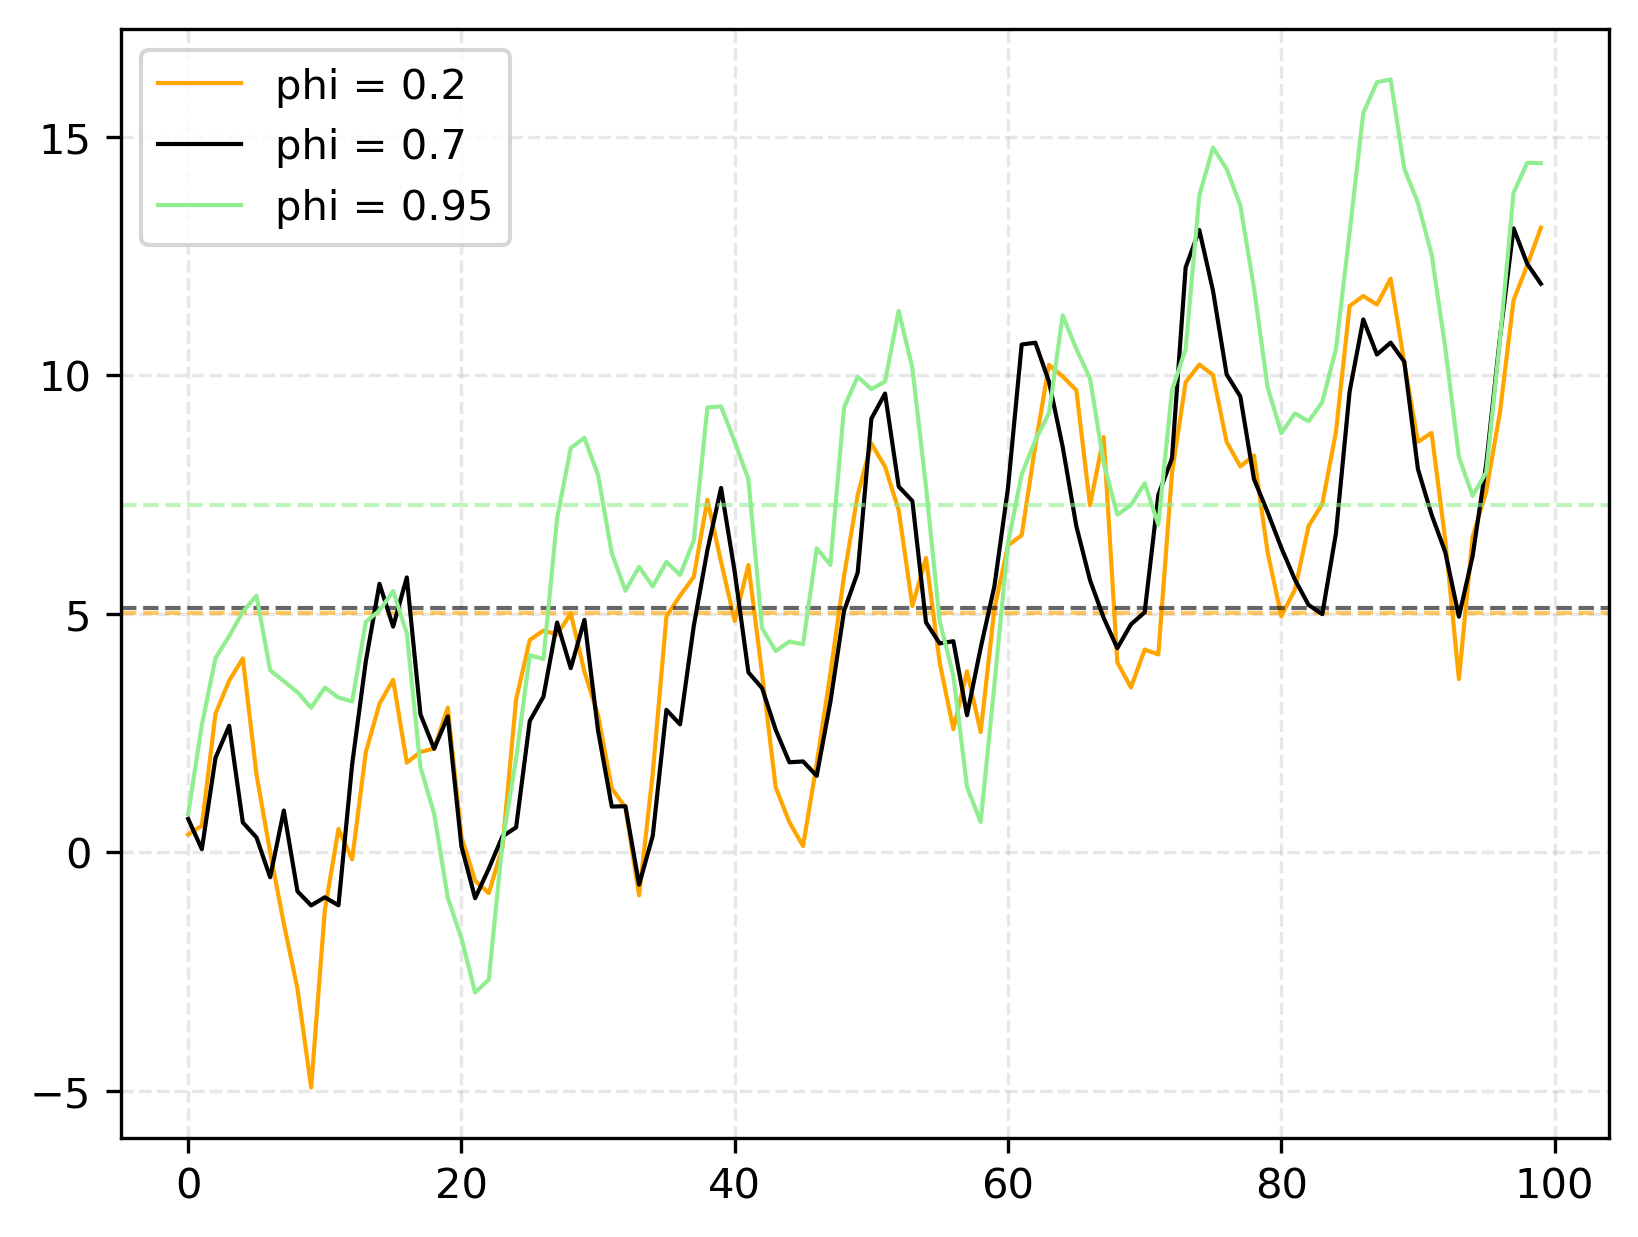
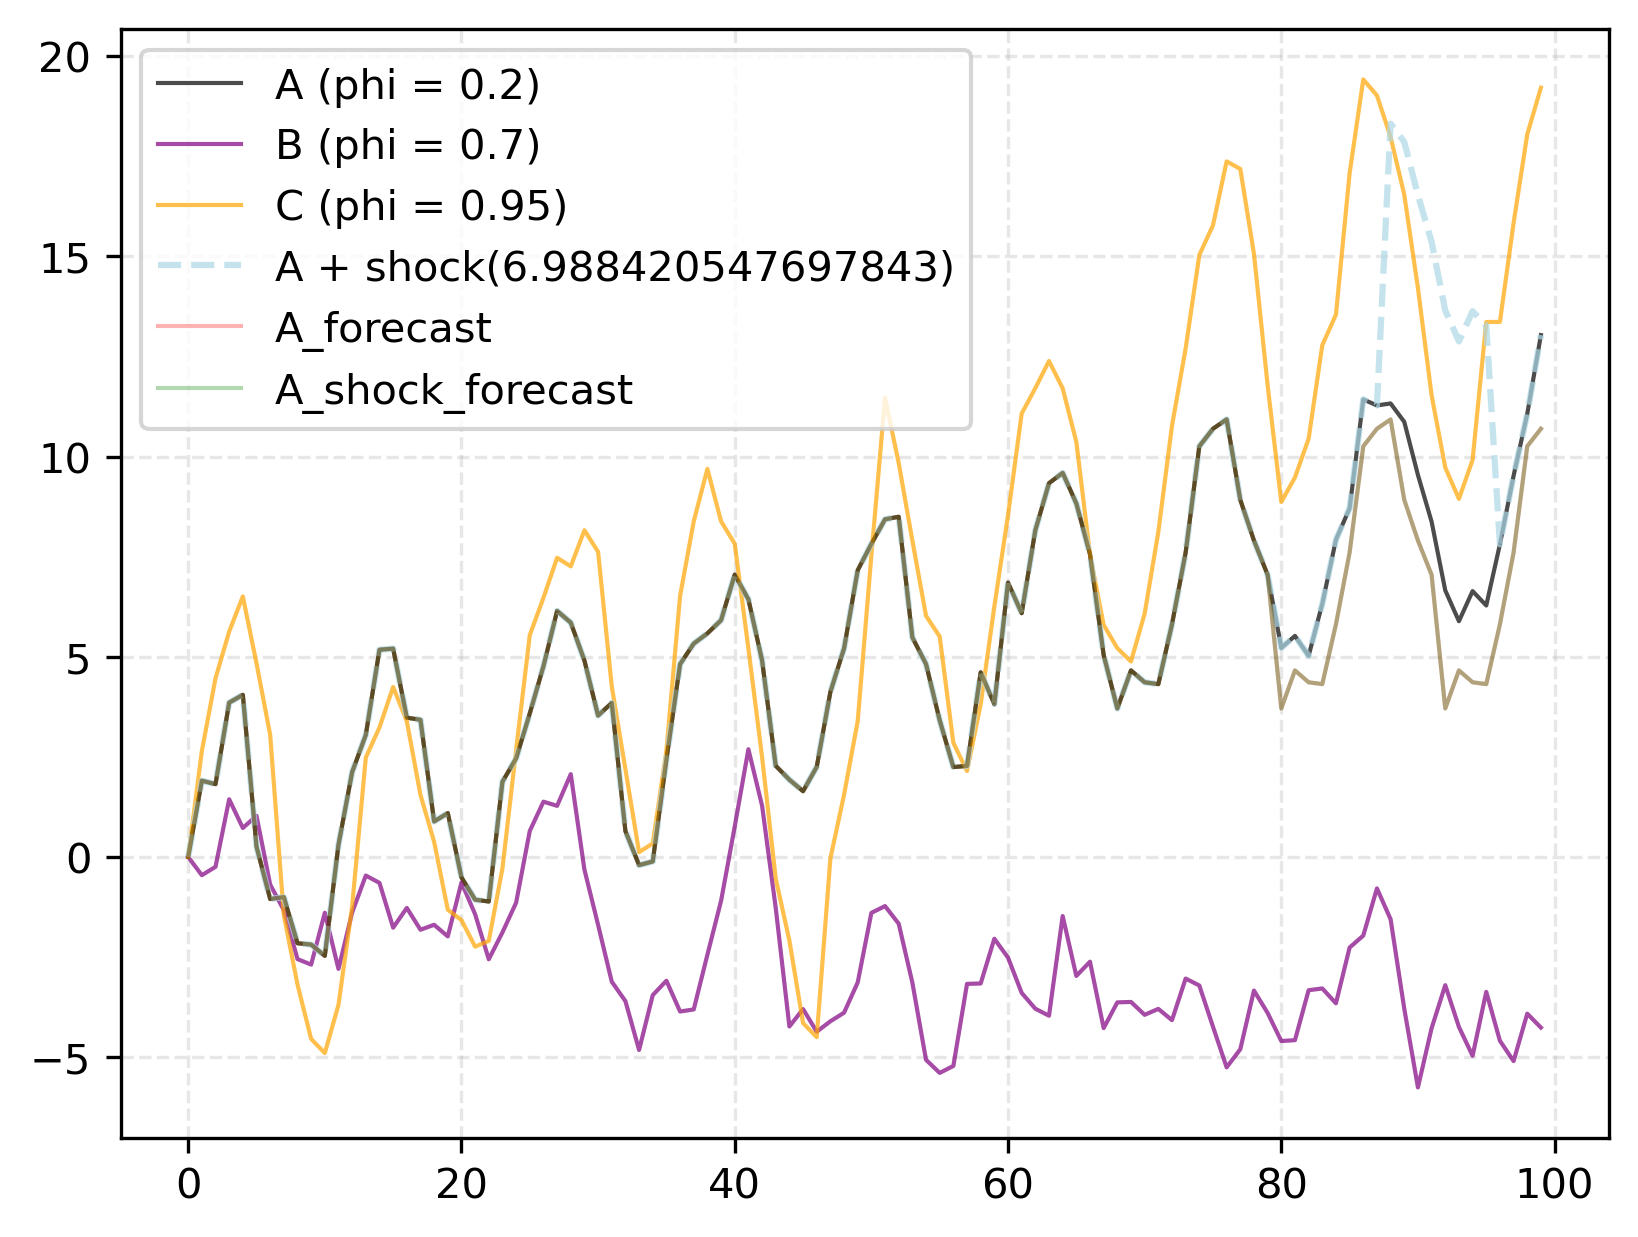
Add forecasting model: season naive

diff --git a/data/synthetic/ar_generation.py b/data/synthetic/ar_generation.py
@@ -1,6 +1,9 @@
+import array
 from cProfile import label
 import os
+from tkinter.constants import S
 import numpy as np
+import pandas as pd
 import matplotlib.pyplot as plt
 
 
@@ -11,32 +14,38 @@ os.makedirs(FIG_DIR, exist_ok=True)
 # Step 0: Set-up
 T = 100
 t = np.arange(T)
+seasonality_period = 12
 rng = np.random.default_rng(42)
 
 # 1. Generate AR + Seasonality + Trend
-def make_leaf(phi, amp, slope, lc):
+def make_leaf(phi, amp, slope, lc, name):
     trend = slope * t
-    seasonality = amp * np.sin(2 * np.pi * t / 12)
+    seasonality = amp * np.sin(2 * np.pi * t / seasonality_period)
     ar = np.zeros(T)
     for i in range(1,T):
         ar[i] = phi * ar[i-1] + rng.normal()
     y = ar + seasonality + trend
-    plt.plot(y, color=lc, linewidth=1.0, alpha=0.7, linestyle="-", label=f"phi = {phi}")
+    plt.plot(y, color=lc, linewidth=1.0, alpha=0.7, linestyle="-", label=f"{name} (phi = {phi})")
 
     return {"y": y, "ar": ar, "trend": trend, "seasonality": seasonality}
 
 # 2. Make leaf
-A = make_leaf(phi=0.2, amp=3, slope=0.1, lc="k")
-B = make_leaf(phi=0.7, amp=1, slope=-0.05, lc="orange")
-C = make_leaf(phi=0.95, amp=5, slope=0.15, lc="lightgreen")
+A = make_leaf(phi=0.2, amp=3, slope=0.1, lc="k", name="A")
+B = make_leaf(phi=0.7, amp=1, slope=-0.05, lc="purple", name="B")
+C = make_leaf(phi=0.95, amp=5, slope=0.15, lc="orange", name="C")
+
+
+A_shock = {k: v.copy() for k, v in A.items()}   # 独立副本,改它不会动到 A
 
 # 3. Build Hierarchy 
 hierarchy = {
+
     "y": A["y"] + B["y"] + C["y"],
     "trend": A["trend"] + B["trend"] + C["trend"],
     "seasonality": A["seasonality"] + B["seasonality"] + C["seasonality"],
     "ar": A["ar"] + B["ar"] + C["ar"]
 }
+# plt.plot(hierarchy["y"], color="red", linewidth=1.0, alpha=0.7, linestyle="--", label="Total")
 
 # 3.1 Sanity Check: Coherence for hierarchy
 err = np.abs(hierarchy["y"] - (A["y"] + B["y"] + C["y"])).max()
@@ -44,21 +53,26 @@ print("Coherent Error (should be 0): ", err)
 
 # 4. Inject Shock/Signal (generated ground-truth impact to node in location-wise and time window-wise)
 # a. Set-up: Shock period and value
-shock_s, shock_e, shock_v = 40, 50, 10.
+shock_s, shock_e, shock_v = 88, 96, 50*rng.random()   # 窗口落在预测区 [80,100) 内
 shock = np.zeros(T)
 shock[shock_s:shock_e] = shock_v
 
 # b. inject shock into time series to A only 
 # ===== so that can explain reconsiliation impact to B/C becasue dataset for B/C no change ======
-A["shock"] = shock
-B["shock"], C["shock"] = np.zeros(T), np.zeros(T)
+A_shock["shock"] = shock
+A["shock"], B["shock"], C["shock"] = np.zeros(T), np.zeros(T), np.zeros(T)
 
-A["y"] = A["y"] + A["shock"]
+A_shock["y"] = A_shock["y"] + A_shock["shock"]
+# plot the shocked copy of A (treated): same baseline as A, plus shock, different color
+plt.plot(A_shock["y"], color="lightblue", linewidth=1.5, alpha=0.7, linestyle="--", label=f"A + shock({shock_v})")
 
 # c. update hierarchy
-hierarchy = {
-    "y": A["y"] + B["y"] + C["y"],
-    "shock": A["shock"] + B["shock"] + C["shock"]
+hierarchy = {"shock": A["shock"] + B["shock"] + C["shock"]}
+
+hierarchy_shock = hierarchy
+hierarchy_shock ={
+    "y": A_shock["y"] + B["y"] + C["y"],
+    "shock": A_shock["shock"] + B["shock"] + C["shock"]
 }
 
 # (optional) d. Sanlity Check: all shock is from A in hierarchy
@@ -67,9 +81,88 @@ print(" A shock total: ", A["shock"].sum())
 print(" B shock total: ", B["shock"].sum())
 print(" C shock total: ", C["shock"].sum())
 print(" Hierarchy shock total: ", hierarchy["shock"].sum())
-print("结论: ", "是的" if A["shock"].sum()==hierarchy["shock"].sum() else "Shock不只存在于A, 请检查！")
+print(" A_shock shock total: ", A_shock["shock"].sum())
+print(" Hierarchy shock total: ", hierarchy_shock["shock"].sum())
+print("结论: ", "是的" if A_shock["shock"].sum()==hierarchy_shock["shock"].sum() else "Shock不只存在于A, 请检查！")
+
+# 5. Forecastting Model - Seasonal Naive
+def season_navie(hist:np.ndarray, m:int, h:int):
+    """The simplest forecating model without parameters. Used for validation of problem reasonablity.
+        m: seasonality period / number of time steps for 1 season
+        h: prediction period / number of time steps for predistion
+    """
+    # cut idx of perdiction horizon from orginal ts
+    hist_no_pred = np.asarray(hist[:len(hist)-h])
+    # season naive model
+    pred = np.zeros(h)
+    for each_pred in range(h):
+        idx = len(hist_no_pred) - m + (each_pred % m)
+        pred[each_pred] = hist_no_pred[idx]
+    # append pred, return new entire ts
+    new_ts = np.append(hist_no_pred,pred)
+
+    return new_ts
+
+# 5.1 make forecast for baseline and treatment/shock
+A_forcast = season_navie(A["y"], seasonality_period, 20)
+plt.plot(A_forcast, color="r", linewidth=1.0, alpha=0.3, label="A_forecast")
+
+A_shock_forcast = season_navie(A_shock["y"], seasonality_period, 20)
+plt.plot(A_shock_forcast, color="green", linewidth=1.0, alpha=0.3, label="A_shock_forecast")
 
 
+# Sanity Check
+print(A["y"][68], A_forcast[80])
+print(A_shock["y"][68], A_shock_forcast[80])
+
+
+# 6. Routing Ablation
+H = 20                       # 预测 horizon 长度(最后 H 步)
+m = seasonality_period
+
+# 每条 item 的真值(treated):A 真实打了 promo(在 horizon 窗口内),B/C 没有
+true = {"A": A_shock["y"], "B": B["y"], "C": C["y"]}
+
+# horizon 索引 + promo 窗口(落在 horizon 内)
+h_idx = np.arange(T - H, T)                         # [80..99]
+in_window = (h_idx >= shock_s) & (h_idx < shock_e)  # horizon 上标记 promo 生效的时刻
+effect = shock_v
+
+# 每条 item 的 seasonal-naive 底座预测(只取 horizon 部分;历史干净,不含 promo)
+def naive_h(hist):
+    return season_navie(np.asarray(hist), m, H)[-H:]
+
+base = {k: naive_h(v) for k, v in true.items()}
+
+def with_promo(f):                                  # 在窗口内加 effect
+    f = f.copy(); f[in_window] += effect; return f
+
+methods = {
+    # 6.1 correct: promo 加在 A(判断对了),B/C 正常 naive
+    "correct": {"A": with_promo(base["A"]), "B": base["B"], "C": base["C"]},
+    # 6.2 wrong: promo 加在 B(判断错了),A/C 正常 naive
+    "wrong":   {"A": base["A"], "B": with_promo(base["B"]), "C": base["C"]},
+    # 6.3 no-routing: 三条都正常 naive,不加 effect
+    "none":    {"A": base["A"], "B": base["B"], "C": base["C"]},
+}
+
+# 7. 用 MASE 比较三个方法
+def mase(actual, forecast, train, m):
+    train = np.asarray(train)
+    scale = np.mean(np.abs(train[m:] - train[:-m]))   # 训练集内 seasonal-naive 的 MAE(尺度)
+    return np.mean(np.abs(np.asarray(actual) - np.asarray(forecast))) / scale
+
+print("\n===== Step 7: MASE(整体 / 只看窗口)=====")
+for name, fc in methods.items():
+    overall, window = [], []
+    for k in ("A", "B", "C"):
+        actual = true[k][T-H:]      # 真值(horizon 部分)
+        train  = true[k][:T-H]      # 训练集(用于尺度归一)
+        overall.append(mase(actual, fc[k], train, m))
+        window.append(mase(actual[in_window], fc[k][in_window], train, m))
+    print(f"{name:8s} overall={np.mean(overall):.3f}  window={np.mean(window):.3f}")
+
+# Step LAST: plot & save figures
 plt.legend()
 plt.grid(True, which='both', linestyle="--", alpha=0.3)
 
